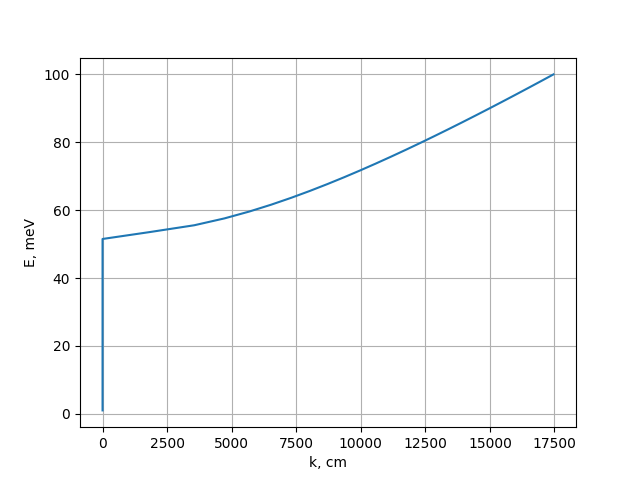
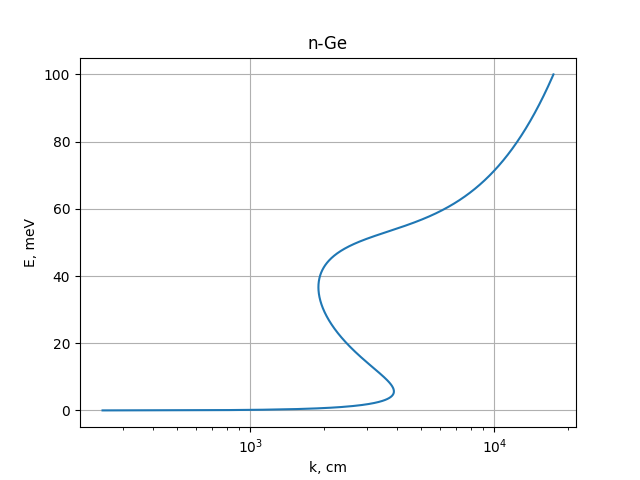
Add calculate

diff --git a/main.py b/main.py
@@ -8,6 +8,7 @@ P.S. when calculating consider wave vector k real
 
 import numpy as np
 import matplotlib.pyplot as plt
+import scipy.optimize
 
 '''
 A little theoretical material about polariton: 
@@ -30,14 +31,13 @@ c = 3e10  # lightspeed [cm / s]
 # MATERIALS CONSTANTS
 '''
 Ge N - TYPE CONSTANTS
-~~~~~~~~~~~~~~~~~~~~
+~~~~~~~~~~~~~~~~~~~~~
 reference: http://www.matprop.ru/Ge
 '''
 me_Ge = 0.12 * m0  # effective mass of conductivity
 epsilon_inf_Ge = 16.2  # high frequency dielectric constant
 mu_Ge = 1000  # electron mobility сm ^ 2 / (V * s)
 Ne_Ge = 4e18  # concentration of electrons in n - Ge
-tau_Ge = me_Ge * (mu_Ge * 0.1) / (1.6 * 10e-19)  # lifetime of electron
 
 '''
 GaAs CONSTANTS
@@ -54,7 +54,6 @@ w_LO = 8.55e12  # Hz
 # alloyed (n - type)
 mu_nGaAs = 4000  # electron mobility сm ^ 2 / (V * s)
 Ne_nGaAs = 4 * 10 ** 17  # concentration of electrons in n - Ge
-tau_nGaAs = me_GaAs * (mu_nGaAs * 0.1) / (1.6 * 10 ** - 19)  # time of electron life
 
 '''
 A little theoretical information about the description models used and their comparison with our samples 
@@ -86,34 +85,59 @@ Theory Drude + One - Phonon Resonance:
  carriers (electrons) ===> using OPR + TgD
 '''
 
+# Create energy range from 0 to 100 meV
+E = np.linspace(0.01, 100, 100) * 10 ** -3  # [eV]
+w_real_part = np.transpose(E) / h_  # E = w * hO
 
-def w_p(ne, eps_inf, me):
+
+def image_frequency(freq: float):  # create image frequency
+    w_ = w_real_part + np.complex_(1j) * freq
+    return w_
+
+
+def tau(m_e, mu):  # Calculation lifetime of electron (SI UNIT)
+    e_ = 1.6 * 10 ** -19  # coulon
+    m_ = m_e * 10 ** -3  # kg
+    mu_ = mu * 10 ** -4  # m ^ 2 / (V * sec)
+    tau_out = m_ * mu_ / e_  # sec
+    return tau_out
+
+
+tau_Ge = tau(me_Ge, mu_Ge)
+tau_nGaAs = tau(me_GaAs, mu_nGaAs)
+
+
+def w_p(ne, eps_inf, me):  # plasma frequency
     mass_const = (4 * np.pi * e ** 2) / me
     w_p_out = np.sqrt(mass_const * ne / eps_inf)
     return w_p_out
 
 
-def th_drude(eps_inf, w_plasmon, tau, freq):  # Theory Drude
+def th_drude(eps_inf, w_plasmon, tau_e, freq: float):  # Theory Drude
+    freq_ = image_frequency(freq)
     wp2 = w_plasmon ** 2
-    w_ = freq * (freq + 1j / tau)
+    w_ = freq_ * (freq_ + 1j / tau_e)
     eps_return = eps_inf * (1.0 - wp2 / w_)
     return eps_return
 
 
-def opr(eps_inf, gamma, w_lo, w_to, freq):  # ONE - PLASMON RESONANCE
+def opr(eps_inf, tau_phonon, w_lo, w_to, freq: float):  # ONE - PLASMON RESONANCE
+    freq_ = image_frequency(freq)
     numerator = w_lo ** 2 - w_to ** 2
-    denominator = w_to ** 2 - freq * (freq - freq * 1j * gamma)
+    denominator = w_to ** 2 - freq_ * (freq_ - 1j / tau_phonon)
     opr_return = eps_inf * (1 + numerator / denominator)
     return opr_return
 
 
-def thd_opr(eps_inf, w_plasma, tau, freq, gamma, w_lo, w_to,):  # Theory Drude + One - Phonon Resonance
+def thd_opr(eps_inf, w_plasma, tau_electron, freq: float, tau_phonon, w_lo, w_to):  # Theory Drude + One - Phonon Res
+    freq_ = image_frequency(freq)
     numerator = w_lo ** 2 - w_to ** 2
-    denominator = w_to ** 2 - freq*(freq - freq * 1j * gamma)
+    denominator = w_to ** 2 - freq_ * (freq_ - 1j / tau_phonon)
     w_plasma_sqr = w_plasma ** 2
-    w_ = freq * (freq + 1j / tau)
+    w_ = freq_ * (freq_ + 1j / tau_electron)
     thd_opr_return = eps_inf * (1 + numerator / denominator - w_plasma_sqr / w_)
     return thd_opr_return
+
 
 
 # Find wave vector. This need for calculate wavelength of polariton
@@ -122,54 +146,97 @@ For finding wave vector we solve next equation:
 k ^ 2 = (w / c) ^ 2 * eps(w),
 where k - wave vector, c - ligthspeed [cm / s], eps(w) - dielectric constant, w - frequency
 k = (w / c) * (eps(w)) ^ (1 / 2)
+NOTE: w = Re(w) + i * Im(w), Re(w) = E / h_
 '''
 
-# create energy range
-E = np.linspace(1, 100, 50) * 10 ** -3  # amount of point equal 50 [eV]
-w = np.transpose(E) / h_  # E = w * h
+
+def real_part_wave_equation(x: float):
+    fr = image_frequency(x)
+    if i == 1:
+        w_plasma_Ge = w_p(Ne_Ge, epsilon_inf_Ge, me_Ge)
+        epsilon = th_drude(epsilon_inf_Ge, w_plasma_Ge, tau_Ge, x)
+        image_part = np.real((fr / c) * np.sqrt(epsilon))
+        return image_part
+    elif i == 2:
+        epsilon = opr(epsilon_inf_GaAs, tau_opt_ph_GaAs, w_LO, w_TO, x)
+        image_part = np.real((fr / c) * np.sqrt(epsilon))
+        return image_part
+    elif i == 3:
+        w_plasma_nGaAs = w_p(Ne_nGaAs, epsilon_inf_GaAs, me_GaAs)
+        epsilon = thd_opr(epsilon_inf_GaAs, w_plasma_nGaAs, tau_opt_ph_GaAs, x, tau_opt_ph_GaAs, w_LO, w_TO)
+        image_part = np.real((fr / c) * np.sqrt(epsilon))
+        return image_part
 
 
-def wave_vector_polariton(fr, epsilon):
-    k_polariton = np.real((fr / c) * np.sqrt(epsilon))
-    return k_polariton
+def image_part_wave_equation(x: float):
+    if i == 1:
+        w_plasma_Ge = w_p(Ne_Ge, epsilon_inf_Ge, me_Ge)
+        epsilon = th_drude(epsilon_inf_Ge, w_plasma_Ge, tau_Ge, x)
+        image_part = np.imag(((w_real_part + np.complex_(1j) * x) / c) * np.sqrt(epsilon))
+        return image_part
+    elif i == 2:
+        epsilon = opr(epsilon_inf_GaAs, tau_opt_ph_GaAs, w_LO, w_TO, x)
+        image_part = np.imag(((w_real_part + np.complex_(1j) * x) / c) * np.sqrt(epsilon))
+        return image_part
+    elif i == 3:
+        w_plasma_nGaAs = w_p(Ne_nGaAs, epsilon_inf_GaAs, me_GaAs)
+        epsilon = thd_opr(epsilon_inf_GaAs, w_plasma_nGaAs, tau_opt_ph_GaAs, x, tau_opt_ph_GaAs, w_LO, w_TO)
+        image_part = np.imag(((w_real_part + np.complex_(1j) * x) / c) * np.sqrt(epsilon))
+        return image_part
 
 
-# n-Ge:
-w_pl_Ge = w_p(Ne_Ge, epsilon_inf_Ge, me_Ge)
-eps_Ge = th_drude(epsilon_inf_Ge, w_pl_Ge, tau_Ge, w)
-k_pol_Ge = wave_vector_polariton(w, eps_Ge)
-print(k_pol_Ge, '\n', k_pol_Ge.shape)
+def calculation_wave_vector(freq):
+    k = real_part_wave_equation(freq)
+    return k
 
-# GaAs:
-eps_GaAs = opr(epsilon_inf_GaAs, tau_opt_ph_GaAs, w_LO, w_TO, w)
-k_pol_GaAs = wave_vector_polariton(w, eps_GaAs)
-print(k_pol_GaAs, '\n')
 
-# GaAs:
-w_pl_GaAs = w_p(Ne_nGaAs, epsilon_inf_Ge, me_GaAs)
-eps_nGaAs = thd_opr(epsilon_static_GaAs, w_pl_GaAs, tau_nGaAs, w, tau_opt_ph_GaAs, w_LO, w_TO)
-k_pol_nGaAs = wave_vector_polariton(w, eps_nGaAs)
-print(k_pol_nGaAs, '\n')
-
+i = 1
+initial_guess = w_real_part
+w_Ge = scipy.optimize.newton(image_part_wave_equation, initial_guess, maxiter=10000, disp=False, full_output=False)
+print('Image part', image_part_wave_equation(np.array(w_Ge)))
+i = 2
+w_GaAs = scipy.optimize.newton(image_part_wave_equation, w_real_part, disp=False, full_output=False)
+#print(print('Image part', image_part_wave_equation(np.array(w_GaAs))))
+i = 3
+w_nGaAs = scipy.optimize.newton(image_part_wave_equation, w_real_part, disp=False, full_output=False)
+#print(print('Image part', image_part_wave_equation(np.array(w_nGaAs))))
 
 '''
 Plot dispersion E(k) unit 
 '''
+'''
 figure1, ax1 = plt.subplots()
 ax1.plot(k_pol_Ge, E * 10 ** 3, label='n-Ge')
-ax1.set(ylabel='E, meV', xlabel='k, cm')
+ax1.set(ylabel='E, meV', xlabel='k, cm', title='n-Ge')
 ax1.grid()
+plt.semilogx()
 figure1.savefig('n-Ge.png')
 plt.show()
 figure2, ax2 = plt.subplots()
 ax2.plot(k_pol_GaAs, E * 10 ** 3, label='GaAs')
+ax2.set(ylabel='E, meV', xlabel='k, cm', title='GaAs')
 ax2.grid()
-ax2.set(ylabel='E, meV', xlabel='k, cm')
+plt.semilogx()
 figure2.savefig('GaAs.png')
 plt.show()
 figure3, ax3 = plt.subplots()
 ax3.plot(k_pol_nGaAs, E * 10 ** 3, label='n-GaAs')
+ax3.set(ylabel='E, meV', xlabel='k, cm', title='n-GaAs')
 ax3.grid()
-ax3.set(ylabel='E, meV', xlabel='k, cm')
 figure3.savefig('n-GaAs.png')
+plt.semilogx()
 plt.show()
+figure4, ax4 = plt.subplots()
+ax4.plot(k_pol_Ge, E * 10 ** 3, label='n-Ge')
+ax4.set(ylabel='E, meV', xlabel='k, cm')
+ax4.plot(k_pol_GaAs, E * 10 ** 3, label='GaAs')
+ax4.set(ylabel='E, meV', xlabel='k, cm')
+ax4.plot(k_pol_nGaAs, E * 10 ** 3, label='n-GaAs')
+ax4.set(ylabel='E, meV', xlabel='k, cm')
+ax4.grid()
+ax4.legend()
+figure3.savefig('all material.png')
+plt.semilogx()
+plt.semilogy()
+plt.show()
+'''
